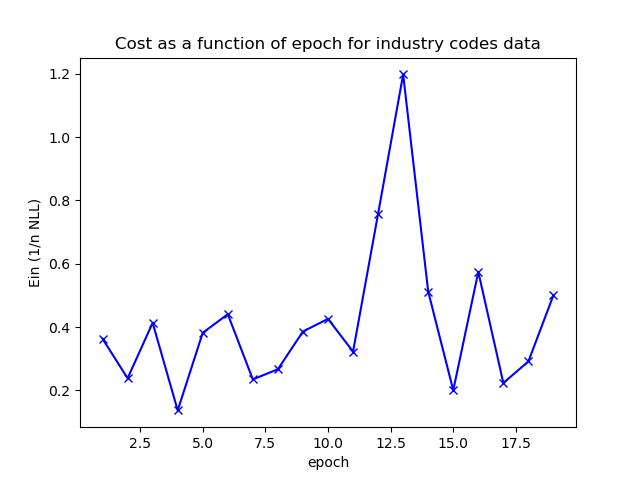
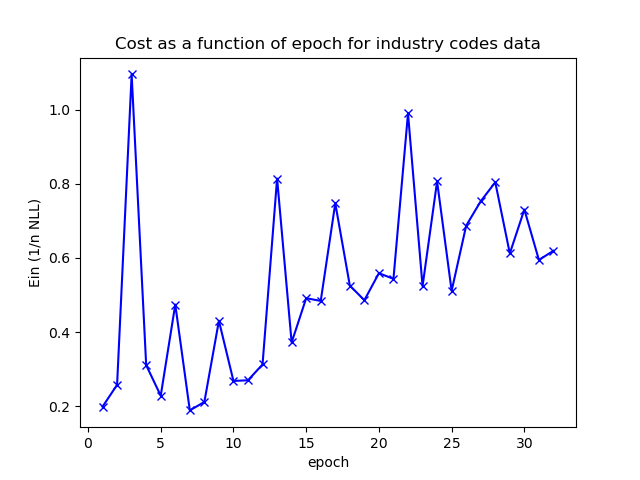
removed regularisation term

diff --git a/logistic_regression.py b/logistic_regression.py
@@ -35,7 +35,7 @@ def cost_grad(x, y, w, lambda_=0.01):
 
     cost = -np.mean(y_binary * np.log(h) + (1 - y_binary) * np.log(1 - h)) + (lambda_ / 2) * np.sum(w ** 2)
 
-    gradient = (x.T @ (h - y_binary)) / n + lambda_ * w  # regularization of gradient
+    gradient = (x.T @ (h - y_binary)) / n #+ lambda_ * w  # regularization of gradient
 
     #assert gradient.shape == w.shape
     return cost, gradient
@@ -112,7 +112,7 @@ class LogisticRegressionClassifier:
         return s
 
 
-    def fit(self, x, y, w=None, lr=0.1, batch_size=16, epochs=10, patience=15):
+    def fit(self, x, y, w=None, lr=0.1, batch_size=16, epochs=10, patience=25):
 
         n, d = x.shape
         if w is None:
